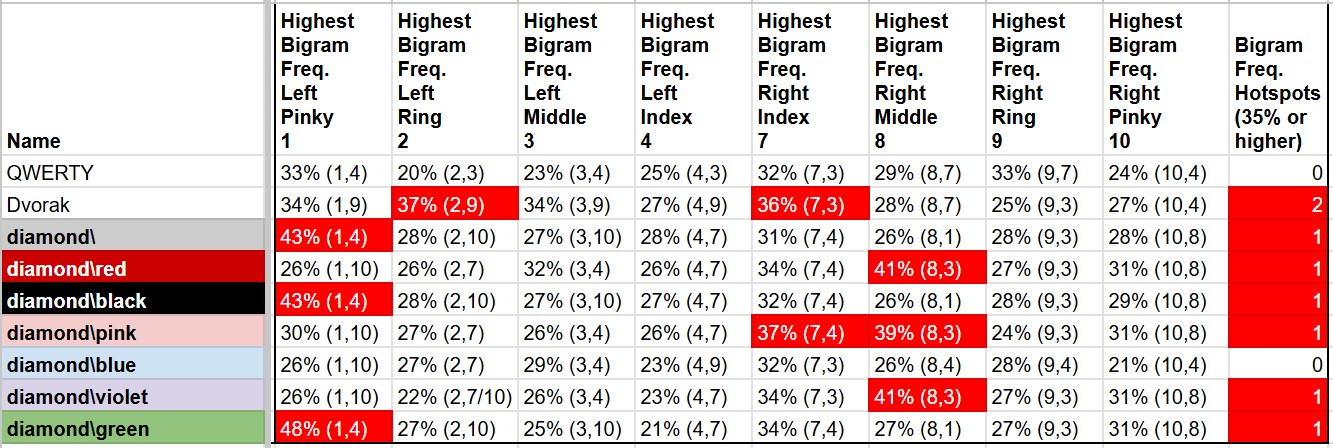
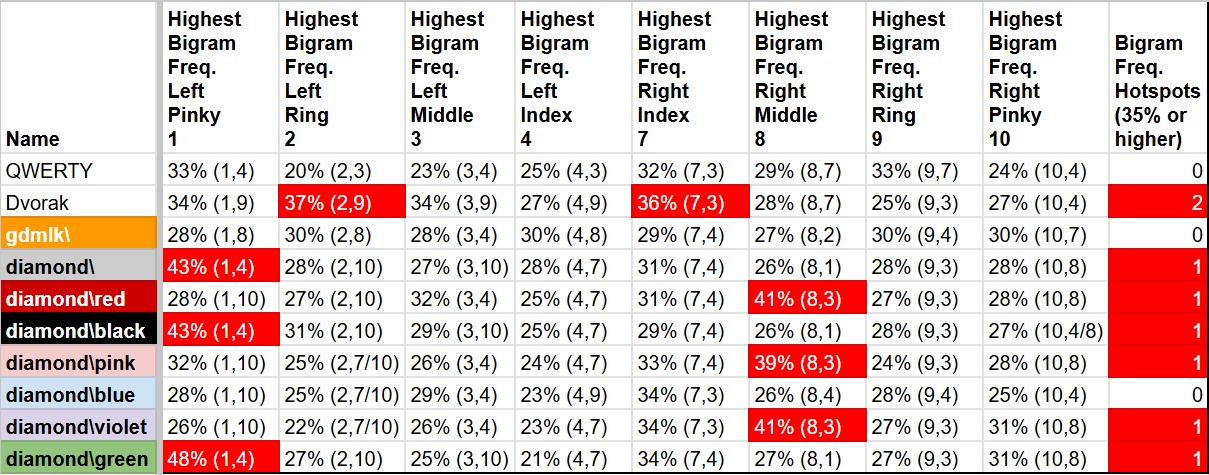
swapped J and V keys for diamond\red, diamond\black and diamond\blue, swapped j v and ' then, added records of having completed learning all my row-staggered layouts, updated all related images and files

diff --git a/README.md b/README.md
@@ -363,3 +363,135 @@ Then I created diamond\black by taking what I learned from diamond\red to make i
 After spending time doing optimizations on diamond\red, I came up with a layout similar to it but did not want to replace diamond\red so it ended up becoming diamond\pink.
 
 I originally wanted diamond\blue to be like diamond\red but with a lower same finger bigram frequency however, I then focused on changing keys on both sides of the keyboard after understanding the bigram frequency tables to want a distribution that is 30% or less on each finger, unfortunately there was one spot recording 31% which was the best I could get.
+
+## Proof of having learned my layouts
+
+With making so many keyboard layouts, I spent time learning all the row-staggered versions via the website keybr dot com. Here are all of them below with the dates they were fully completed or finished without fully unlocking J to save for time.
+
+diamond\, unlocked all keys on January 24th 2026:
+![screenshot from keybr for learning the above layout](https://raw.githubusercontent.com/r134x7/diamond_backslash/refs/heads/main/images/keybr_diamond_backslash_original_1.jpg)
+
+diamond\black (old version), finished with J left to unlock on January 12th 2026:
+![screenshot from keybr for learning the above layout](https://raw.githubusercontent.com/r134x7/diamond_backslash/refs/heads/main/images/keybr_diamond_backslash_black_1.jpg)
+
+diamond\black (latest version), unlocked all keys on January 26th 2026:
+![screenshot from keybr for learning the above layout](https://raw.githubusercontent.com/r134x7/diamond_backslash/refs/heads/main/images/keybr_diamond_backslash_black_2.jpg)
+
+diamond\red (old version), finished with J left to unlock on January 15th 2026:
+![screenshot from keybr for learning the above layout](https://raw.githubusercontent.com/r134x7/diamond_backslash/refs/heads/main/images/keybr_diamond_backslash_red_1.jpg)
+
+diamond\red (second latest version before swapping the J and V keys), finished with J left to unlock on January 24th 2026:
+![screenshot from keybr for learning the above layout](https://raw.githubusercontent.com/r134x7/diamond_backslash/refs/heads/main/images/keybr_diamond_backslash_red_2.jpg)
+
+diamond\blue (second latest version before swapping the J and V keys), finished with J left to unlock on January 25th 2026:
+![screenshot from keybr for learning the above layout](https://raw.githubusercontent.com/r134x7/diamond_backslash/refs/heads/main/images/keybr_diamond_backslash_blue_1.jpg)
+
+diamond\pink (old version), finished with J left to unlock on January 17th 2026:
+![screenshot from keybr for learning the above layout](https://raw.githubusercontent.com/r134x7/diamond_backslash/refs/heads/main/images/keybr_diamond_backslash_pink_1.jpg)
+
+diamond\pink (latest version), unlocked all keys on January 26th 2026:
+![screenshot from keybr for learning the above layout](https://raw.githubusercontent.com/r134x7/diamond_backslash/refs/heads/main/images/keybr_diamond_backslash_pink_2.jpg)
+
+diamond\violet, finished with J left to unlock on January 25th 2026:
+![screenshot from keybr for learning the above layout](https://raw.githubusercontent.com/r134x7/diamond_backslash/refs/heads/main/images/keybr_diamond_backslash_violet_1.jpg)
+
+diamond\green, finished with J left to unlock on January 21st 2026:
+![screenshot from keybr for learning the above layout](https://raw.githubusercontent.com/r134x7/diamond_backslash/refs/heads/main/images/keybr_diamond_backslash_green_1.jpg)
+
+---
+
+Adding to the above, I kept track of the amount of days I spent learning each layout. It is in chronological order with diamond\ being the first layout I was learning on keybr dot com on day one to finishing with diamond\pink (latest version) on day 40.
+
+1:
+diamond\\
+- started on day 1 (for all layouts) 
+- took 3 days to reach E,N,I,A,R,L,T 
+- took 5 days to reach E,N,I,A,R,L,T,O,S,U,D,Y,C
+- took 11 days to reach E,N,I,A,R,L,T,O,S,U,D,Y,C,G
+- restarted
+- took 1 day to reach E,N,I,A,R,L,T,O,S,U,D,Y,C,G,H,P,M,K,B,W,F,V,Q,J.
+- currently day 12 (for this layout) - All keys unlocked!
+- finished on day 38 (for all layouts)
+
+2:
+diamond\\red (old version)
+- started on day 11 (for all layouts)
+- took 1 day to reach E,N,I,A,R,L,T,O,S,U
+- took 2 days to reach E,N,I,A,R,L,T,O,S,U,D,Y,C
+- took 3 days to reach E,N,I,A,R,L,T,O,S,U,D,Y,C,G
+- took 4 days to reach E,N,I,A,R,L,T,O,S,U,D,Y,C,G,H,P,M,K,B,W
+- took 5 days to reach E,N,I,A,R,L,T,O,S,U,D,Y,C,G,H,P,M,K,B,W,F
+- took 6 days to reach E,N,I,A,R,L,T,O,S,U,D,Y,C,G,H,P,M,K,B,W,F,Z,V,X,Q,J
+- currently day 6 (for this layout) - 1 letter left to unlock
+- finished on day 29 (for all layouts)
+
+3:
+diamond\\black (old version)
+- started on day 11
+- took 1 day to reach E,N,I,A,R,L,T,O,S,U,D,Y,C
+- took 3 days to reach E,N,I,A,R,L,T,O,S,U,D,Y,C,G
+- took 5 days to reach E,N,I,A,R,L,T,O,S,U,D,Y,C,G,H
+- took 7 days to reach E,N,I,A,R,L,T,O,S,U,D,Y,C,G,H,P,M
+- took 8 days to reach E,N,I,A,R,L,T,O,S,U,D,Y,C,G,H,P,M,K,B
+- took 10 days to reach E,N,I,A,R,L,T,O,S,U,D,Y,C,G,H,P,M,K,B,W
+- took 12 days to reach E,N,I,A,R,L,T,O,S,U,D,Y,C,G,H,P,M,K,B,W,F
+- took 13 days to reach E,N,I,A,R,L,T,O,S,U,D,Y,C,G,H,P,M,K,B,W,F,Z,V
+- took 14 days to reach E,N,I,A,R,L,T,O,S,U,D,Y,C,G,H,P,M,K,B,W,F,Z,V,X,Q,J
+- currently day 15 (for this layout) - 1 letter left to unlock
+- finished on day 26 (for all layouts)
+
+4:
+diamond\\pink
+- started on day 31 (for all layouts)
+- took 1 days to reach E,N,I,A,R,L,T,O,S,U,D,Y,C,G,H,P,M,K,B,W,F,Z,V,X,Q,J
+- currently day 1 (for this layout) - 1 letter left to unlock
+- finished on day 31 (for all layouts)
+
+5:
+diamond\\red (second latest version before swapping the J and V keys)
+- started on day 33 (for all layouts)
+- took 1 days to reach E,N,I,A,R,L,T,O,S,U,D,Y,C,G,H,P,M,K,B,W,F
+- restarted
+- took 1 days to reach E,N,I,A,R,L,T,O,S,U,D,Y,C,G,H,P,M,K,B,W
+- took 3 days to reach E,N,I,A,R,L,T,O,S,U,D,Y,C,G,H,P,M,K,B,W,F
+- took 4 days to reach E,N,I,A,R,L,T,O,S,U,D,Y,C,G,H,P,M,K,B,W,F,Z,V,X,Q,J
+- currently day 5 (for this layout) - 1 letter left to unlock
+- finished on day 38 (for all layouts)
+
+6:
+diamond\\violet
+- started on day 31 (for all layouts)
+- took 1 days to reach E,N,I,A,R,L,T,O,S,U,D,Y,C,G,H,P,M,K,B,W,F
+- took 2 days to reach E,N,I,A,R,L,T,O,S,U,D,Y,C,G,H,P,M,K,B,W,F,Z,V,X,Q,J
+- restarted
+- took 1 days to reach E,N,I,A,R,L,T,O,S,U,D,Y,C,G,H,P,M,K,B,W,F,Z,V,X,Q,J
+- currently day 1 (for this layout) - 1 letter left to unlock
+- finished on day 39 (for all layouts)
+
+7:
+diamond\\green
+- started on day 34 (for all layouts)
+- took 1 days to reach E,N,I,A,R,L,T,O,S,U,D,Y,C,G,H,P,M,K,B,W,F
+- took 2 days to reach E,N,I,A,R,L,T,O,S,U,D,Y,C,G,H,P,M,K,B,W,F,Z,V,X,Q,J
+- currently day 2 (for this layout) - 1 letter left to unlock
+- finished on day 35 (for all layouts)
+
+8:
+diamond\\blue
+- started on day 38 (for all layouts)
+- took 1 days to reach E,N,I,A,R,L,T,O,S,U,D,Y,C,G,H,P,M,K,B,W
+- took 2 days to reach E,N,I,A,R,L,T,O,S,U,D,Y,C,G,H,P,M,K,B,W,F,Z,V,X,Q,J
+- currently day 2 - 1 letter left to unlock
+- finished on day 39 (for all layouts)
+
+9:
+diamond\\black (latest version)
+- took 1 day to reach E,N,I,A,R,L,T,O,S,U,D,Y,C,G,H,P,M,K,B,W,F,V,Q,J.
+- currently day 1 - All keys unlocked!
+- finished on day 40 (for all layouts)
+
+10:
+diamond\\pink (latest version)
+- took 1 day to reach E,N,I,A,R,L,T,O,S,U,D,Y,C,G,H,P,M,K,B,W,F,V,Q,J.
+- currently day 1 - All keys unlocked!
+- finished on day 40 (for all layouts)

diff --git a/proof_of_concepts/diamond_backslash_red/description.md b/proof_of_concepts/diamond_backslash_red/description.md
@@ -23,3 +23,13 @@ Note: 1 to 4 are the left hand fingers from pinky to index for each column they 
 
 The following is meant to be read from the rows as they add up to 100%
 ![image of diamond\\red keyboard layout bigram frequency](https://raw.githubusercontent.com/r134x7/diamond_backslash/refs/heads/main/images/diamond_backslash_red_bigram_frequency.jpg)
+
+## proof of having learned my layout
+
+screenshot taken from keybr dot com.
+
+diamond\red (old version), finished with J left to unlock on January 15th 2026:
+![screenshot from keybr for learning the above layout](https://raw.githubusercontent.com/r134x7/diamond_backslash/refs/heads/main/images/keybr_diamond_backslash_red_1.jpg)
+
+diamond\red (second latest version before swapping the J and V keys), finished with J left to unlock on January 24th 2026:
+![screenshot from keybr for learning the above layout](https://raw.githubusercontent.com/r134x7/diamond_backslash/refs/heads/main/images/keybr_diamond_backslash_red_2.jpg)

diff --git a/proof_of_concepts/diamond_backslash_black/description.md b/proof_of_concepts/diamond_backslash_black/description.md
@@ -23,3 +23,13 @@ Note: 1 to 4 are the left hand fingers from pinky to index for each column they 
 
 The following is meant to be read from the rows as they add up to 100%
 ![image of diamond\\black keyboard layout bigram frequency](https://raw.githubusercontent.com/r134x7/diamond_backslash/refs/heads/main/images/diamond_backslash_black_bigram_frequency.jpg)
+
+## proof of having learned my layout
+
+screenshot taken from keybr dot com.
+
+diamond\black (old version), finished with J left to unlock on January 12th 2026:
+![screenshot from keybr for learning the above layout](https://raw.githubusercontent.com/r134x7/diamond_backslash/refs/heads/main/images/keybr_diamond_backslash_black_1.jpg)
+
+diamond\black (latest version), unlocked all keys on January 26th 2026:
+![screenshot from keybr for learning the above layout](https://raw.githubusercontent.com/r134x7/diamond_backslash/refs/heads/main/images/keybr_diamond_backslash_black_2.jpg)

diff --git a/proof_of_concepts/diamond_backslash_pink/description.md b/proof_of_concepts/diamond_backslash_pink/description.md
@@ -23,3 +23,13 @@ Note: 1 to 4 are the left hand fingers from pinky to index for each column they 
 
 The following is meant to be read from the rows as they add up to 100%
 ![image of diamond\\red keyboard layout bigram frequency](https://raw.githubusercontent.com/r134x7/diamond_backslash/refs/heads/main/images/diamond_backslash_pink_bigram_frequency.jpg)
+
+## proof of having learned my layout
+
+screenshot taken from keybr dot com.
+
+diamond\pink (old version), finished with J left to unlock on January 17th 2026:
+![screenshot from keybr for learning the above layout](https://raw.githubusercontent.com/r134x7/diamond_backslash/refs/heads/main/images/keybr_diamond_backslash_pink_1.jpg)
+
+diamond\pink (latest version), unlocked all keys on January 26th 2026:
+![screenshot from keybr for learning the above layout](https://raw.githubusercontent.com/r134x7/diamond_backslash/refs/heads/main/images/keybr_diamond_backslash_pink_2.jpg)

diff --git a/proof_of_concepts/diamond_backslash_blue/description.md b/proof_of_concepts/diamond_backslash_blue/description.md
@@ -23,3 +23,10 @@ Note: 1 to 4 are the left hand fingers from pinky to index for each column they 
 
 The following is meant to be read from the rows as they add up to 100%
 ![image of diamond\\blue keyboard layout bigram frequency](https://raw.githubusercontent.com/r134x7/diamond_backslash/refs/heads/main/images/diamond_backslash_blue_bigram_frequency.jpg)
+
+## proof of having learned my layout
+
+screenshot taken from keybr dot com.
+
+diamond\blue (second latest version before swapping the J and V keys), finished with J left to unlock on January 25th 2026:
+![screenshot from keybr for learning the above layout](https://raw.githubusercontent.com/r134x7/diamond_backslash/refs/heads/main/images/keybr_diamond_backslash_blue_1.jpg)

diff --git a/proof_of_concepts/diamond_backslash_violet/description.md b/proof_of_concepts/diamond_backslash_violet/description.md
@@ -23,3 +23,10 @@ Note: 1 to 4 are the left hand fingers from pinky to index for each column they 
 
 The following is meant to be read from the rows as they add up to 100%
 ![image of diamond\\violet keyboard layout bigram frequency](https://raw.githubusercontent.com/r134x7/diamond_backslash/refs/heads/main/images/diamond_backslash_violet_bigram_frequency.jpg)
+
+## proof of having learned my layout
+
+screenshot taken from keybr dot com.
+
+diamond\violet, finished with J left to unlock on January 25th 2026:
+![screenshot from keybr for learning the above layout](https://raw.githubusercontent.com/r134x7/diamond_backslash/refs/heads/main/images/keybr_diamond_backslash_violet_1.jpg)

diff --git a/proof_of_concepts/diamond_backslash_green/description.md b/proof_of_concepts/diamond_backslash_green/description.md
@@ -23,3 +23,10 @@ Note: 1 to 4 are the left hand fingers from pinky to index for each column they 
 
 The following is meant to be read from the rows as they add up to 100%
 ![image of diamond\\green keyboard layout bigram frequency](https://raw.githubusercontent.com/r134x7/diamond_backslash/refs/heads/main/images/diamond_backslash_green_bigram_frequency.jpg)
+
+## proof of having learned my layout
+
+screenshot taken from keybr dot com.
+
+diamond\green, finished with J left to unlock on January 21st 2026:
+![screenshot from keybr for learning the above layout](https://raw.githubusercontent.com/r134x7/diamond_backslash/refs/heads/main/images/keybr_diamond_backslash_green_1.jpg)

diff --git a/proof_of_concepts/diamond_backslash (original)/description.md b/proof_of_concepts/diamond_backslash (original)/description.md
@@ -23,3 +23,10 @@ Note: 1 to 4 are the left hand fingers from pinky to index for each column they 
 
 The following is meant to be read from the rows as they add up to 100%
 ![image of diamond\\ keyboard layout bigram frequency](https://raw.githubusercontent.com/r134x7/diamond_backslash/refs/heads/main/images/diamond_backslash_original_bigram_frequency.jpg)
+
+## proof of having learned my layout
+
+screenshot taken from keybr dot com.
+
+diamond\, unlocked all keys on January 24th 2026:
+![screenshot from keybr for learning the above layout](https://raw.githubusercontent.com/r134x7/diamond_backslash/refs/heads/main/images/keybr_diamond_backslash_original_1.jpg)
